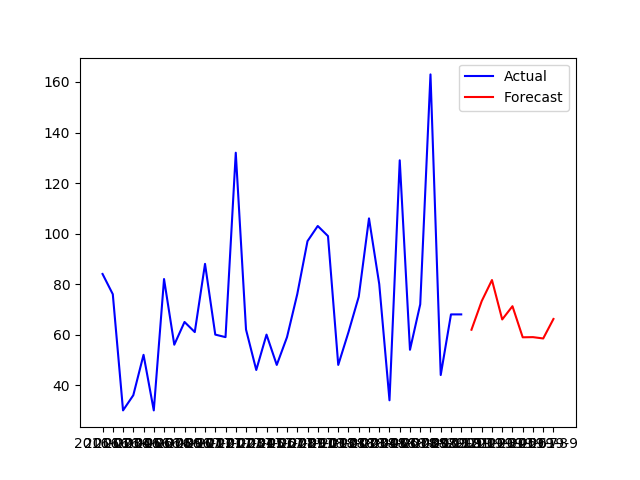
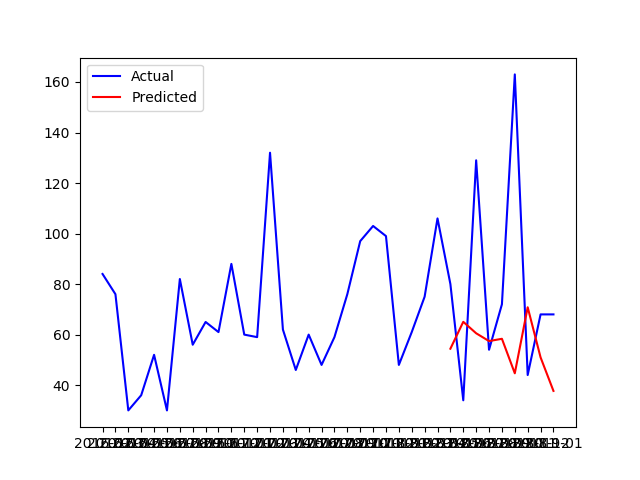
added mlpclassifier for regression (mlpregressor)

diff --git a/app.py b/app.py
@@ -278,6 +278,17 @@ class Ui_MainWindow(object):
             print(f"MAE: {mae}")
             print(f"RMSE: {rmse}\n")
 
+            f, ax = plt.subplots()
+            actual = ax.plot(self.data['Time'].values, self.data['Data'].values, color='blue', label='Actual')
+            ttest = dft['var1(t)'].values
+            predicted = ax.plot(ttest, ypred, color='red', label='Predicted')
+            ax.legend()
+            plt.savefig('Plot.png')
+
+            pic = QtGui.QPixmap('Plot.png')
+            pic = pic.scaled(511, 341)
+            self.graphicsView.setPixmap(pic)
+
             item = QtWidgets.QTableWidgetItem()
             self.tableWidget_2.setItem(0, 0, item)
             item = self.tableWidget_2.item(0, 0)
@@ -351,16 +362,33 @@ class Ui_MainWindow(object):
             print(f"MAE: {mae}")
             print(f"RMSE: {rmse}\n")
 
-            f, ax = plt.subplots()
-            actual = ax.plot(self.data['Time'].values, self.data['Data'].values, color='blue', label='Actual')
-            ttest = dft['var1(t)'].values
-            predicted = ax.plot(ttest, ypred, color='red', label='Predicted')
-            ax.legend()
-            plt.savefig('Plot.png')
+            from sklearn.neural_network import MLPRegressor
+            # from sklearn.preprocessing import StandardScaler
 
-            pic = QtGui.QPixmap('Plot.png')
-            pic = pic.scaled(511, 341)
-            self.graphicsView.setPixmap(pic)
+            # scaler = StandardScaler()
+            # scaler.fit(x)
+            # x_scaled = scaler.transform(x)
+            # xtest_scaled = scaler.transform(xtest)
+
+            hidden = 5
+            reg = MLPRegressor(hidden_layer_sizes=(5, ), activation='logistic', solver='lbfgs', alpha=0.0001,random_state=0)
+            reg.fit(x, y)
+            ypred = reg.predict(xtest)
+            score = reg.score(xtest, ytest)
+            mse = mean_squared_error(ytest, ypred)
+            mae = mean_absolute_error(ytest, ypred)
+            rmse = sqrt(mse)
+            print("Neural Network - Backpropagation")
+            print(reg)
+            print(f"Input: {x.shape[1]}")
+            print(f"Hidden: {hidden}")
+            print(f"Output: {reg.n_outputs_}")
+            print(f"Score: {score}")
+            print(f"MSE: {mse}")
+            print(f"MAE: {mae}")
+            print(f"RMSE: {rmse}\n")
+
+            
         else:
             MainWindow.msg = QtWidgets.QMessageBox()
             MainWindow.msg.setIcon(QtWidgets.QMessageBox.Warning)
